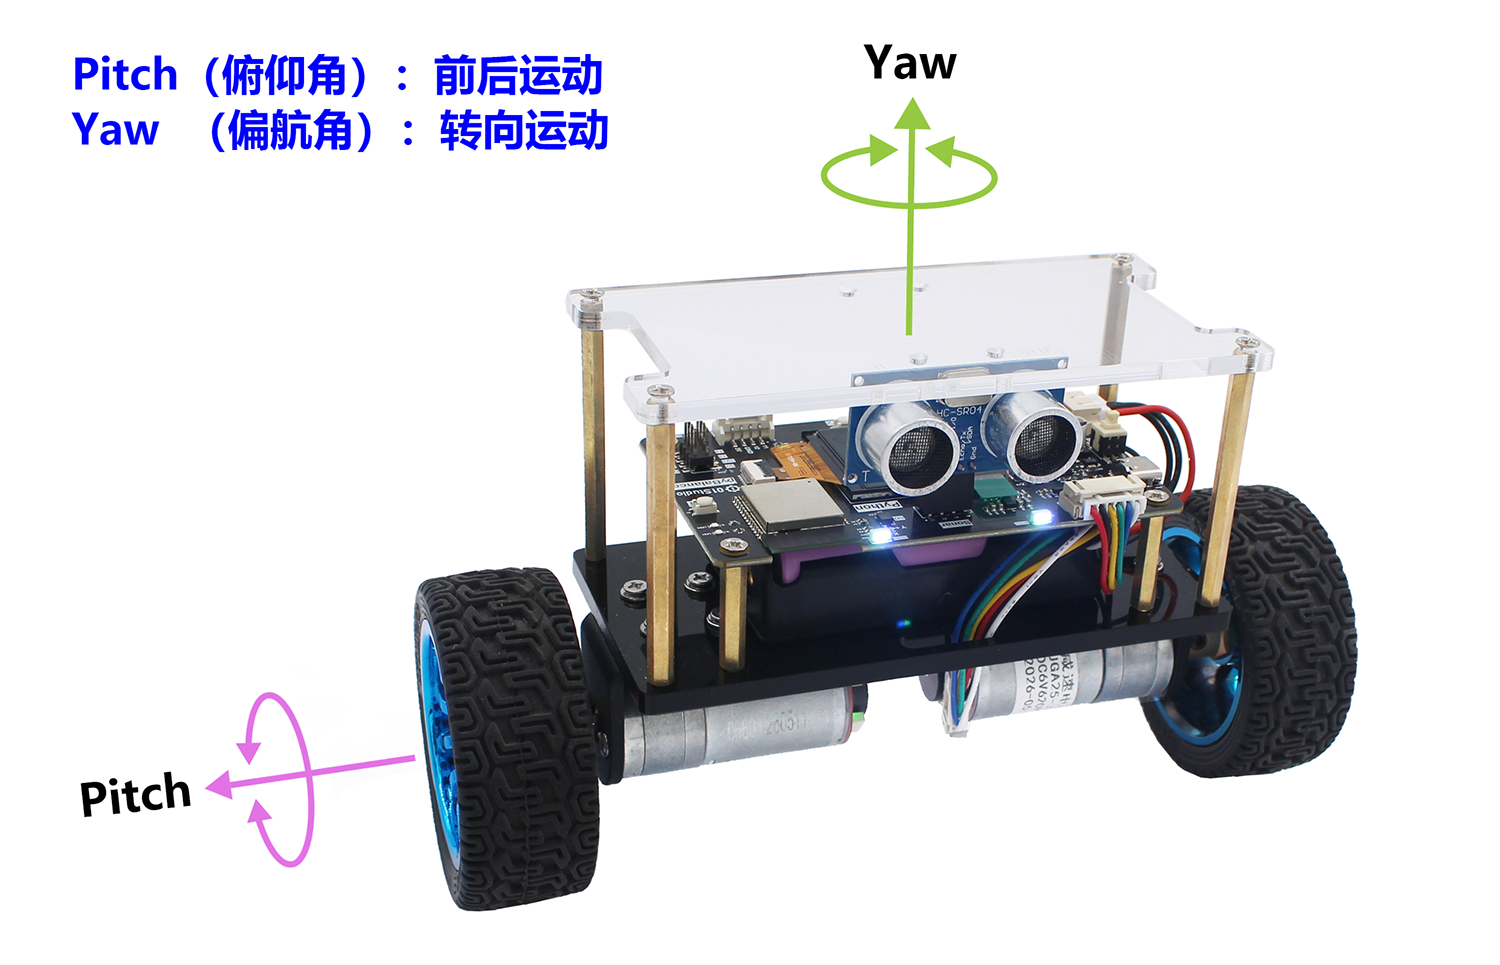
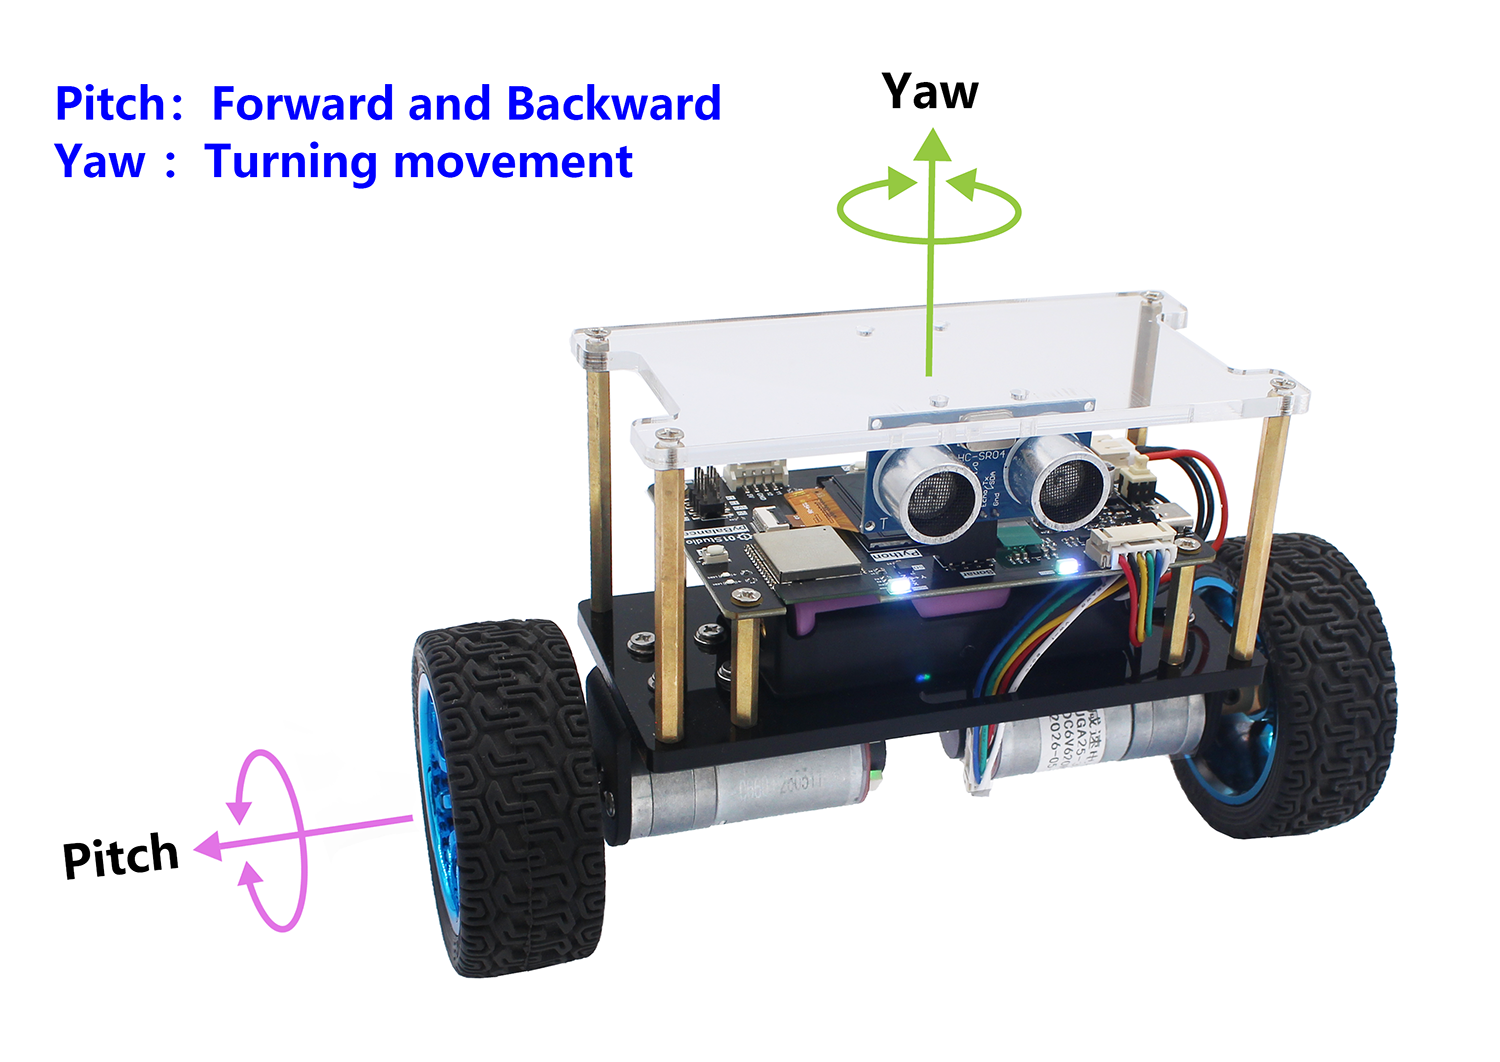
fix README

Changed region(s): [[0.0307, 0.0311, 0.9507, 0.9637], [0.0307, 0.0311, 0.4907, 0.1865]]

diff --git a/README.md b/README.md
@@ -1,4 +1,4 @@
-# pyDrone
+# pyBalance
 
 **English** | [中文](README_zh.md)
 
@@ -6,54 +6,67 @@
 
 ## Introduction
 
-MicroPython is a way to program all kinds of embedded hardware devices using Python. MicroPython is growing rapidly, and 01Studio has long been committed to embedded Python programming — that's why we created the pyDrone open-source project, aiming to make MicroPython even more popular. With MicroPython, you can easily implement a quadcopter's takeoff, landing, hovering, movement, self-rotation, and various other attitudes and actions.
+MicroPython is a way to program all kinds of embedded hardware devices using Python. MicroPython is growing rapidly, and 01Studio has long been committed to embedded Python programming — that's why we created the pyBalance open-source project, aiming to make MicroPython even more popular. With MicroPython, you can easily implement a self-balancing robot's upright balancing, forward/backward movement, line following, ultrasonic obstacle avoidance, WiFi/BLE remote control, and more.
+
+![banner](hardware/direction.png)
 
 Example:
 ```python
-from drone import DRONE
+import pyBalance
 
-# Create a quadcopter object
-d = DRONE(flightmode = 0) # Headless mode
+# Create a balancing robot object
+b = pyBalance.BALANCE()
 
 # Usage
 
-# Take off
-d.takeoff()
+# Start
+b.start()
 
-# Land
-d.landing()
+# Movement speed
+b.speed(valnue = 4)
 
-# Quadcopter attitude control
-d.control(rol = 0, pit = 0, yaw = 0, thr = 0)
+# Attitude control
+d.control(pit = 0, yaw = 0)
+
+# Stop
+b.stop()
 
 ...
 ```
 
 ## Hardware Resources
 
-pyDrone v1.1 [click to buy>>](https://www.aliexpress.com/item/1005009354821307.html)
+pyBalance [click to buy>>](https://www.aliexpress.com/item/1005013485088460.html)
 
-![img](hardware/overview/v1.1/front.png)
+![img](hardware/overview.png)
 
-![img](hardware/overview/v1.1/back.png)
+| Specification | Details |
+| :---: | --- |
+| MCU | ESP32-S3-WROOM-1 (N16R8; Flash: 16 MBytes, RAM: 8 MBytes), supports WiFi/BLE |
+| LED | x3 <br> ● Power indicator: red <br> ● Programmable LED1: blue <br> ● Programmable LED2: green |
+| Buttons | x3 <br> ● Reset button <br> ● Programmable KEY1 <br> ● Programmable KEY2 |
+| RGB LEDs | x4 <br> ● WS2812B / connected in series |
+| 6-axis IMU | QMI8658A (3-axis accelerometer + 3-axis gyroscope) |
+| Display | ● 1.54-inch color display <br> ● Resolution: 240x240 <br> ● Driver IC: ST7789 |
+| GPIO | 2.54mm x 8P pin header |
+| UART/I2C interface | PH-2.0mm-4P (adapter cable included) |
+| Micro USB port | All-in-one for flashing / debugging |
+| Motors | x2 <br> ● DC gear motors (with encoders) <br> ● Voltage: 6V <br> ● Speed: 620 r/min <br> ● Gear ratio: 1:9.2 |
+| Wheels | ● Diameter: 70mm <br> ● Width: 27mm |
+| Li-ion battery | 7.4V / 2 x 18650 cells in series (2200mAh each) / XH-2.54mm-3P connector |
+| Frame | Acrylic frame + aluminum alloy motor brackets |
 
-- MCU: ESP32-S3-WROOM-1 (N16R8; Flash: 16 MBytes, RAM: 8 MBytes), supports WiFi/BLE
-- 4 x LED (charging indicator [orange], power indicator [red], calibration indicator [blue], network indicator [green])
-- 4 x 716 coreless motors
-- 2 x buttons (1 reset button + 1 function button)
-- 1 x IMU (QMI8658A)
-- 1 x barometer (SPA06-003)
-- 1 x electronic compass (QMC5883P)
-- 1 x USB Type-C (download / REPL debugging / power supply)
-- 1 x module expansion interface (2x8Pin 2.0mm pitch female header)
-- 1 x 400mAh / 3.7V Li-Po battery (onboard charging circuit)
-- 1 x battery cover
-- 1 x propeller guard
+| Dimensions | Details |
+| :---: | --- |
+| Size | 200 x 70 x 115mm (L x W x H / whole unit) |
+| Weight | 560g (battery included / whole unit) |
+
+![img](hardware/size.png)
 
 ## Directory Structure
 
 ```
-pyDrone/
+pyBalance/
 ├── examples/          # Example code
 ├── hardware/          # Hardware design resources (schematics, footprints, 3D models)
 ├── firmware/          # Firmware
@@ -66,7 +79,8 @@ pyDrone/
 
 ## Development Resources
 
-- [Wiki (Tutorials & Documentation)](https://wiki.01studio.cc/en/docs/pydrone/)
+- [Wiki (Tutorials & Documentation)](https://wiki.01studio.cc/en/docs/pybalance/)
+- [ESP32 Online Flashing](https://flash.01studio.cc)
 
 ## Changelog
 

diff --git a/README_zh.md b/README_zh.md
@@ -7,7 +7,7 @@
 ## 项目简介
 Micropython是指使用Python做各类嵌入式硬件设备编程。MicroPython发展势头强劲，01Studio一直致力于Python嵌入式编程，特此推出pyDrone开源项目，旨在让MicroPython变得更加流行。使用MicroPython，你可以轻松地实现平衡小车直立、前进、后退、巡线、超声波避障、WiFi蓝牙遥控等功能。
 
-![banner](hardware/direction.png)
+![banner](hardware/direction_zh.png)
 
 例：
 ```python
@@ -36,7 +36,7 @@ b.stop()
 
 pyBalance [点击购买>>](https://item.taobao.com/item.htm?id=1080394969733)
 
-![img](hardware/overview.png)
+![img](hardware/overview_zh.png)
 
 |  产品参数 |  |
 |  :---:  | ---  |
